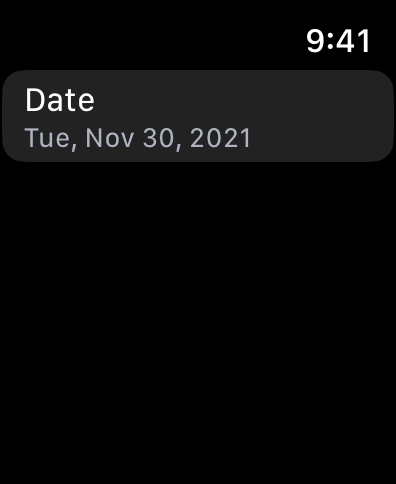
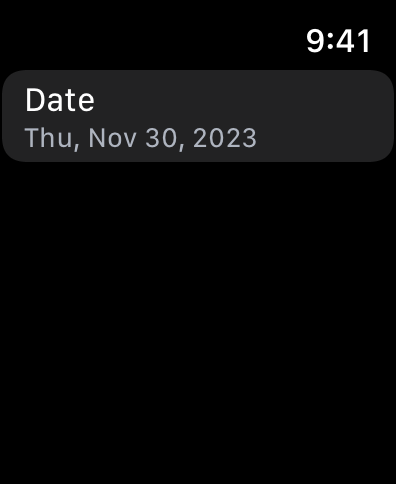
Update screenshots & README

Changed region(s): [[0.0909, 0.2479, 0.6667, 0.3099]]

diff --git a/README.md b/README.md
@@ -138,7 +138,7 @@ See the documentation for more options.
 
 ## Localization
 
-Watch Date Picker currently supports Arabic, Chinese (Simplified), Chinese (Traditional), Danish, Dutch, English, Finnish, French, German, Greek, Hebrew, Japanese, Romanian, Russian, Spanish, and Swedish.
+Watch Date Picker works in all languages supported by watchOS: Arabic, Bulgarian, Catalan, Chinese (Simplified), Chinese (Traditional), Croatian, Czech, Danish, Dutch, English, Finnish, French, German, Greek, Hebrew, Hindi, Hungarian, Indonesian, Italian, Japanese, Kazakh, Korean, Malay, Norwegian, Polish, Portuguese (Brazil), Portuguese (Portugal), Romanian, Russian, Slovak, Spanish, Spanish (Latin America), Swedish, Thai, Turkish, Ukrainian, and Vietnamese.
 
 Translations are based on Apple’s glossaries, thus they should feel at home in each locale. 
 
